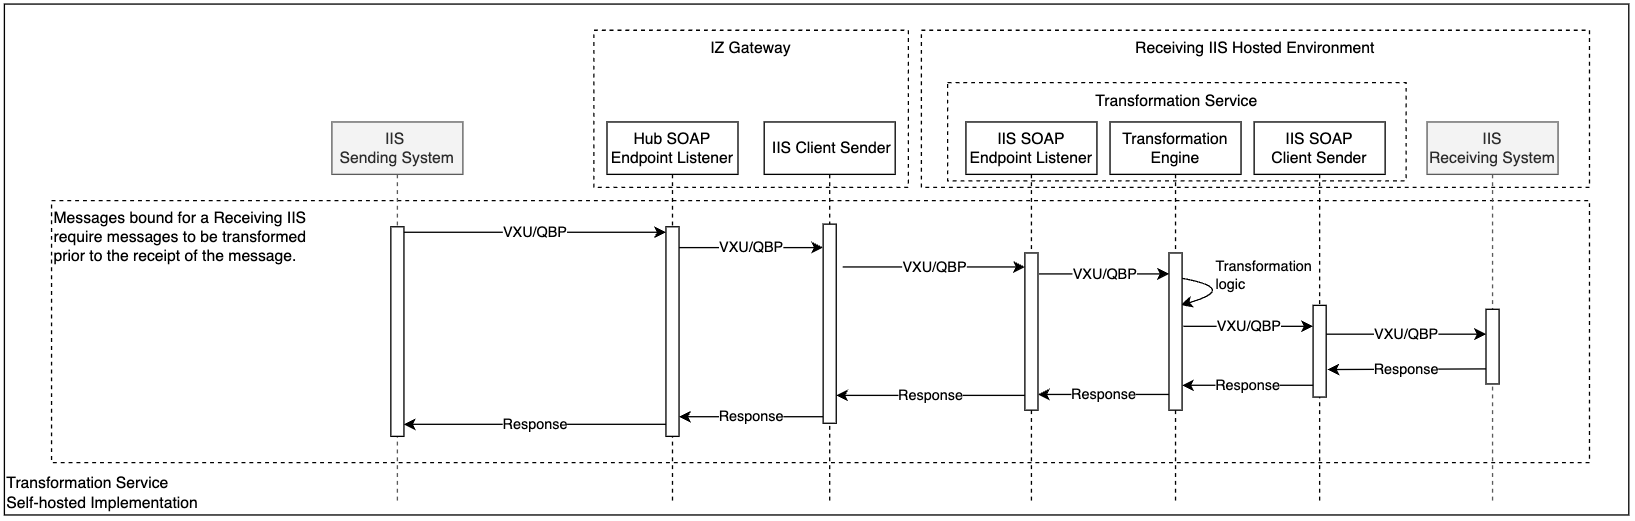
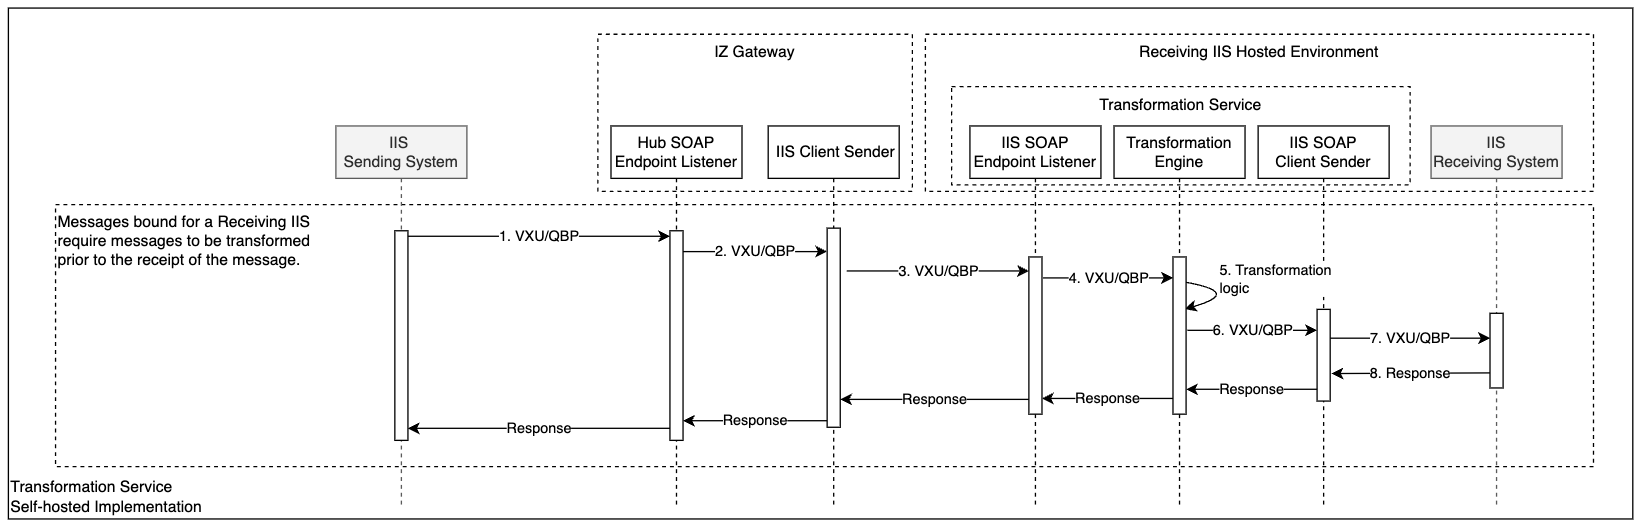
Latest document and image changes - more actors on the sequence diagram.

Changed region(s): [[0.0, 0.0614, 0.9982, 1.0], [0.0, 0.0, 0.9982, 0.0307], [0.1872, 0.215, 0.3119, 0.3378]]

diff --git a/docs/xform-as-iis-receiver.md b/docs/xform-as-iis-receiver.md
@@ -4,10 +4,7 @@
 
 The Transformation Service (a.k.a Xform Service) is an optional service that transforms messages as part of the IZ Gateway Hub message flow.  This document describes how to install and configure the Transformation Service as an IIS Receiver (hosted within the Receiving IIS's hosted environment).
 
-![Transformation Service Diagram](https://raw.githubusercontent.com/IZGateway/izgw-transform/refs/heads/IGDD-1775_documentation_for_selfhosted/docs/images/xform-as-iis-receiver.png)
-
-
-## Introduction
+## Actors and Data Flow
 
 The document uses actors to describe the flow of data through the IZ Gateway Hub and the Transformation Service.  The actors are broken down into two groups: those that are part of the IZ Gateway Hub and those that are part of the Transformation Service.
 
@@ -34,6 +31,8 @@ The Transformation Service has three actors when deployed as an IIS Receiver:
 3. **Transformation Service Actor #2** (Transformation Engine) transforms the message.
 4. **Transformation Service Actor #3** (IIS SOAP Client Sender) sends the message to **IIS Receiving System**.
 5. **IIS Receiving System** responds to the message, and the message flows back through the actors to the original **IIS Sending System**.
+
+![Transformation Service Diagram](https://raw.githubusercontent.com/IZGateway/izgw-transform/refs/heads/IGDD-1775_documentation_for_selfhosted/docs/images/xform-as-iis-receiver.png)
 
 ## Prerequisites
 
@@ -175,7 +174,26 @@ CONTAINER ID   IMAGE                                     COMMAND                
 ded59e415a2b   ghcr.io/izgateway/izgw-transform:latest   "sh -c 'bash run.sh …"   2 minutes ago   Up 2 minutes   8000/tcp, 0.0.0.0:444->444/tcp, 9082/tcp   local-xform
 ```
 
-## Generate Server Key Store
+## Sending a Sample Message to the Transformation Service
+curl --location 'https://localhost:444/IISService' \
+--header 'Content-Type: application/xml' \
+--data '<soap:Envelope xmlns:soap="http://www.w3.org/2003/05/soap-envelope" xmlns:urn="urn:cdc:iisb:2014">
+<soap:Header xmlns:wsa="http://www.w3.org/2005/08/addressing">
+<wsa:Action>urn:cdc:iisb:2014:IISHubPortType:SubmitSingleMessageRequest</wsa:Action>
+<wsa:MessageID>TS_TC_06</wsa:MessageID>
+</soap:Header>
+<soap:Body>
+<urn:SubmitSingleMessageRequest>
+<urn:Username>duser</urn:Username>
+<urn:Password>dpassword</urn:Password>
+<urn:Hl7Message>MSH|^~\&amp;|IRIS IIS|IRIS|TEST|TC_04|20210402091512.000-0100||QBP^Q11^QBP_Q11|20210330093013AZQ231|P|2.5.1|||ER|AL|||||Z34^CDCPHINVS|SIISCLIENT28374|
+QPD|Z34^Request Immunization History^CDCPHINVS|20210330093013LA231|LAMASM77BF4BA6^^^IZGATEWAYTEST&amp;2.16.840.1.113883.40.1&amp;ISO^MR|JohnsonIZG^James^Andrew^^^^L|Leung^Jen^^^^^M|20160414|M|Main Street&amp;&amp;123^^New Orleans^LA^70115^^L|^PRN^PH^^^555^5551111|Y|1</urn:Hl7Message>
+</urn:SubmitSingleMessageRequest>
+</soap:Body>
+</soap:Envelope>
+'
+## Appendix
+### Generate Server Key Store
 
 One of the files mentioned previously is the keystore that is needed to have the Transformation Service run.  For our example we will name this server_keystore.bcfks.
 
@@ -195,7 +213,7 @@ Steps to create the keystore bcfks file:
 * To list the contents of the bcfks file:
     * ```keytool -list -keystore ./server_keystore.bcfks -storepass 'password' -deststoretype BCFKS -providername BCFIPS -provider org.bouncycastle.jcajce.provider.BouncyCastleFipsProvider -providerpath ./bc-fips-1.0.2.4.jar```
 
-## Generate Client Trust Store
+### Generate Client Trust Store
 
 You may already have a file that works for this if you are connecting to a dev or test IZ Gateway. However, as an
 example, below are steps to generate this file to connect to the Development IZ Gateway hosted at dev.izgateway.org.  For out example, our output file will be named client_keystore.bcfks.
